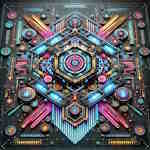
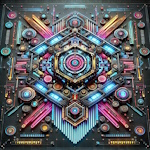
Upload higher resolution image modified company description image size and removed lower padding

diff --git a/random.html b/random.html
@@ -148,10 +148,10 @@
 }
 .description-panel img {
     width: 100%;
-    height: 150px;
+    height: 100%;
     object-fit: cover;
     border: 2px solid #00fff2;
-    margin-bottom: 1rem;
+    /* margin-bottom: 1rem; */
     filter: hue-rotate(-30deg) contrast(1.2);
     transition: all 0.3s ease;
 }
